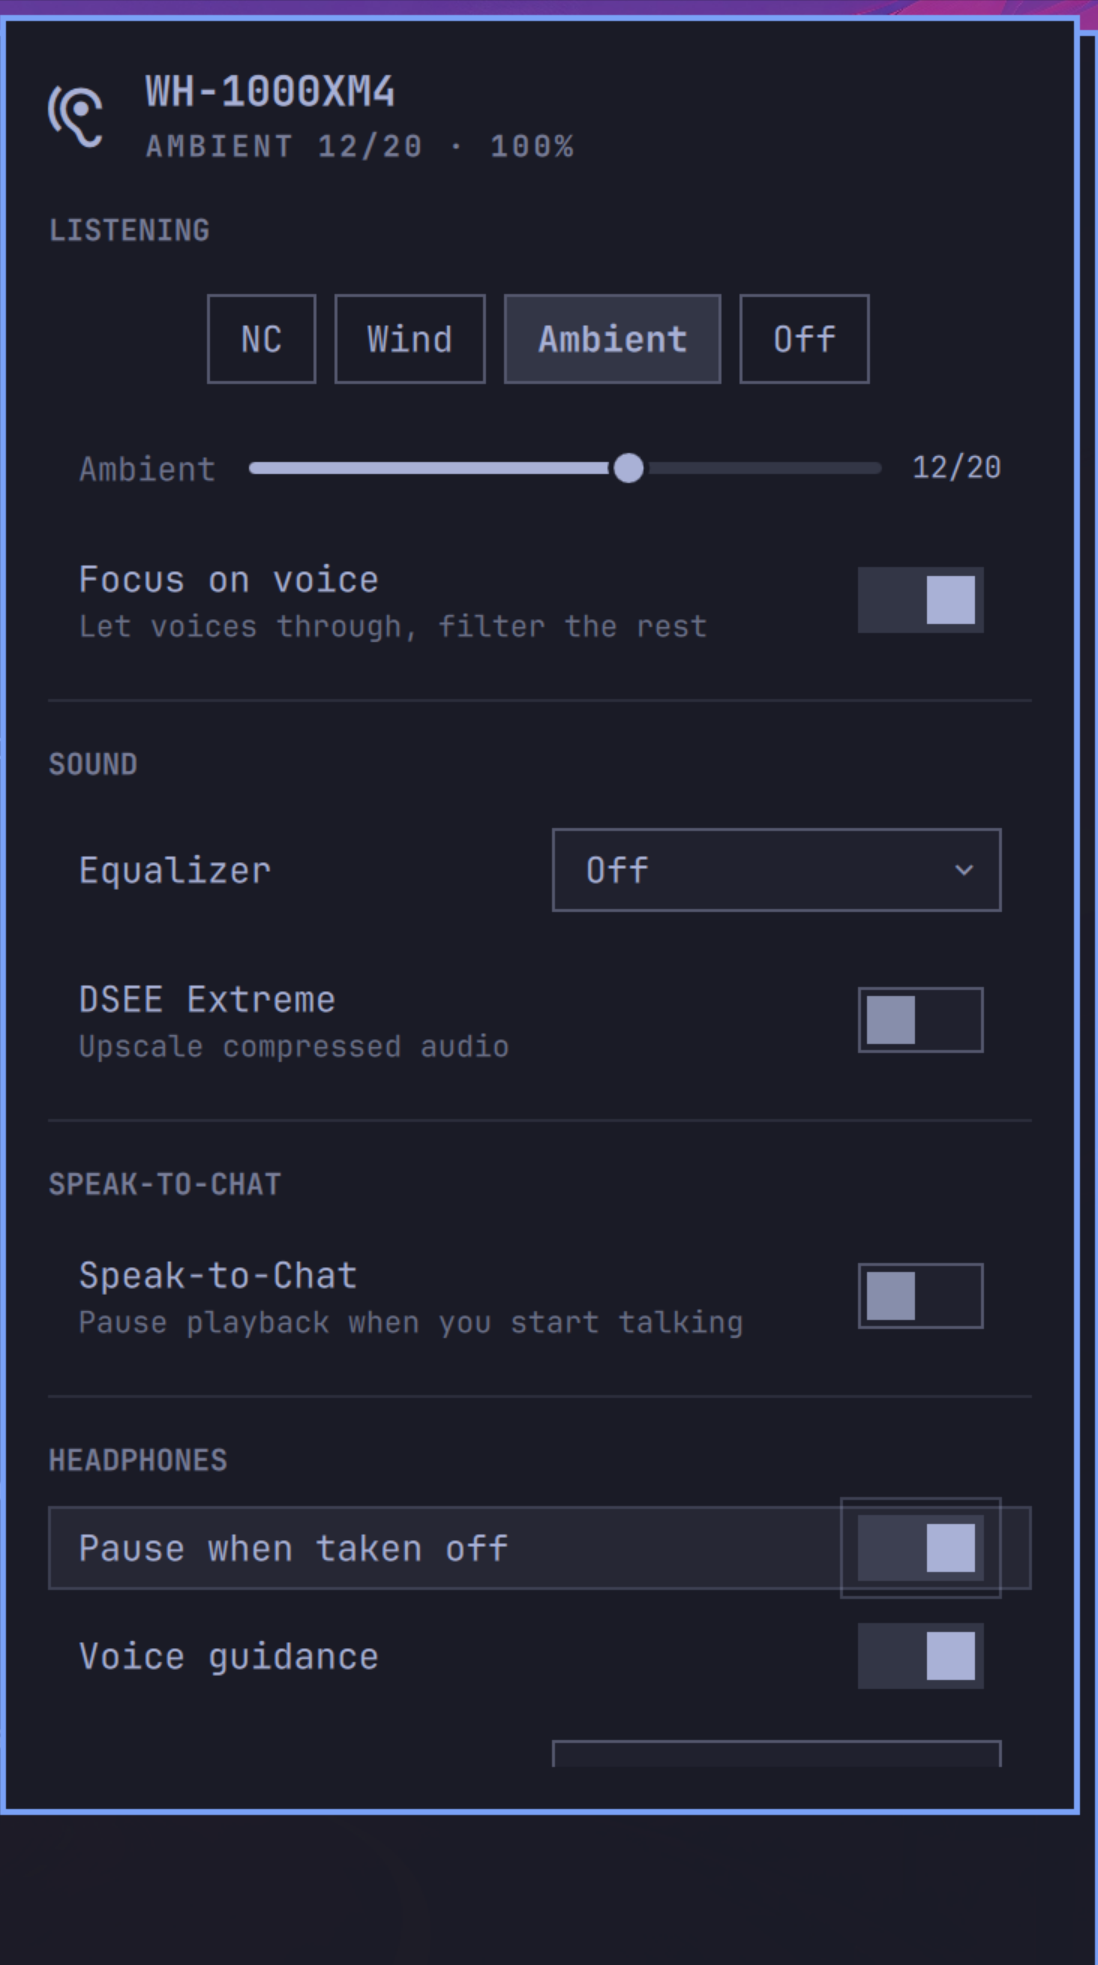
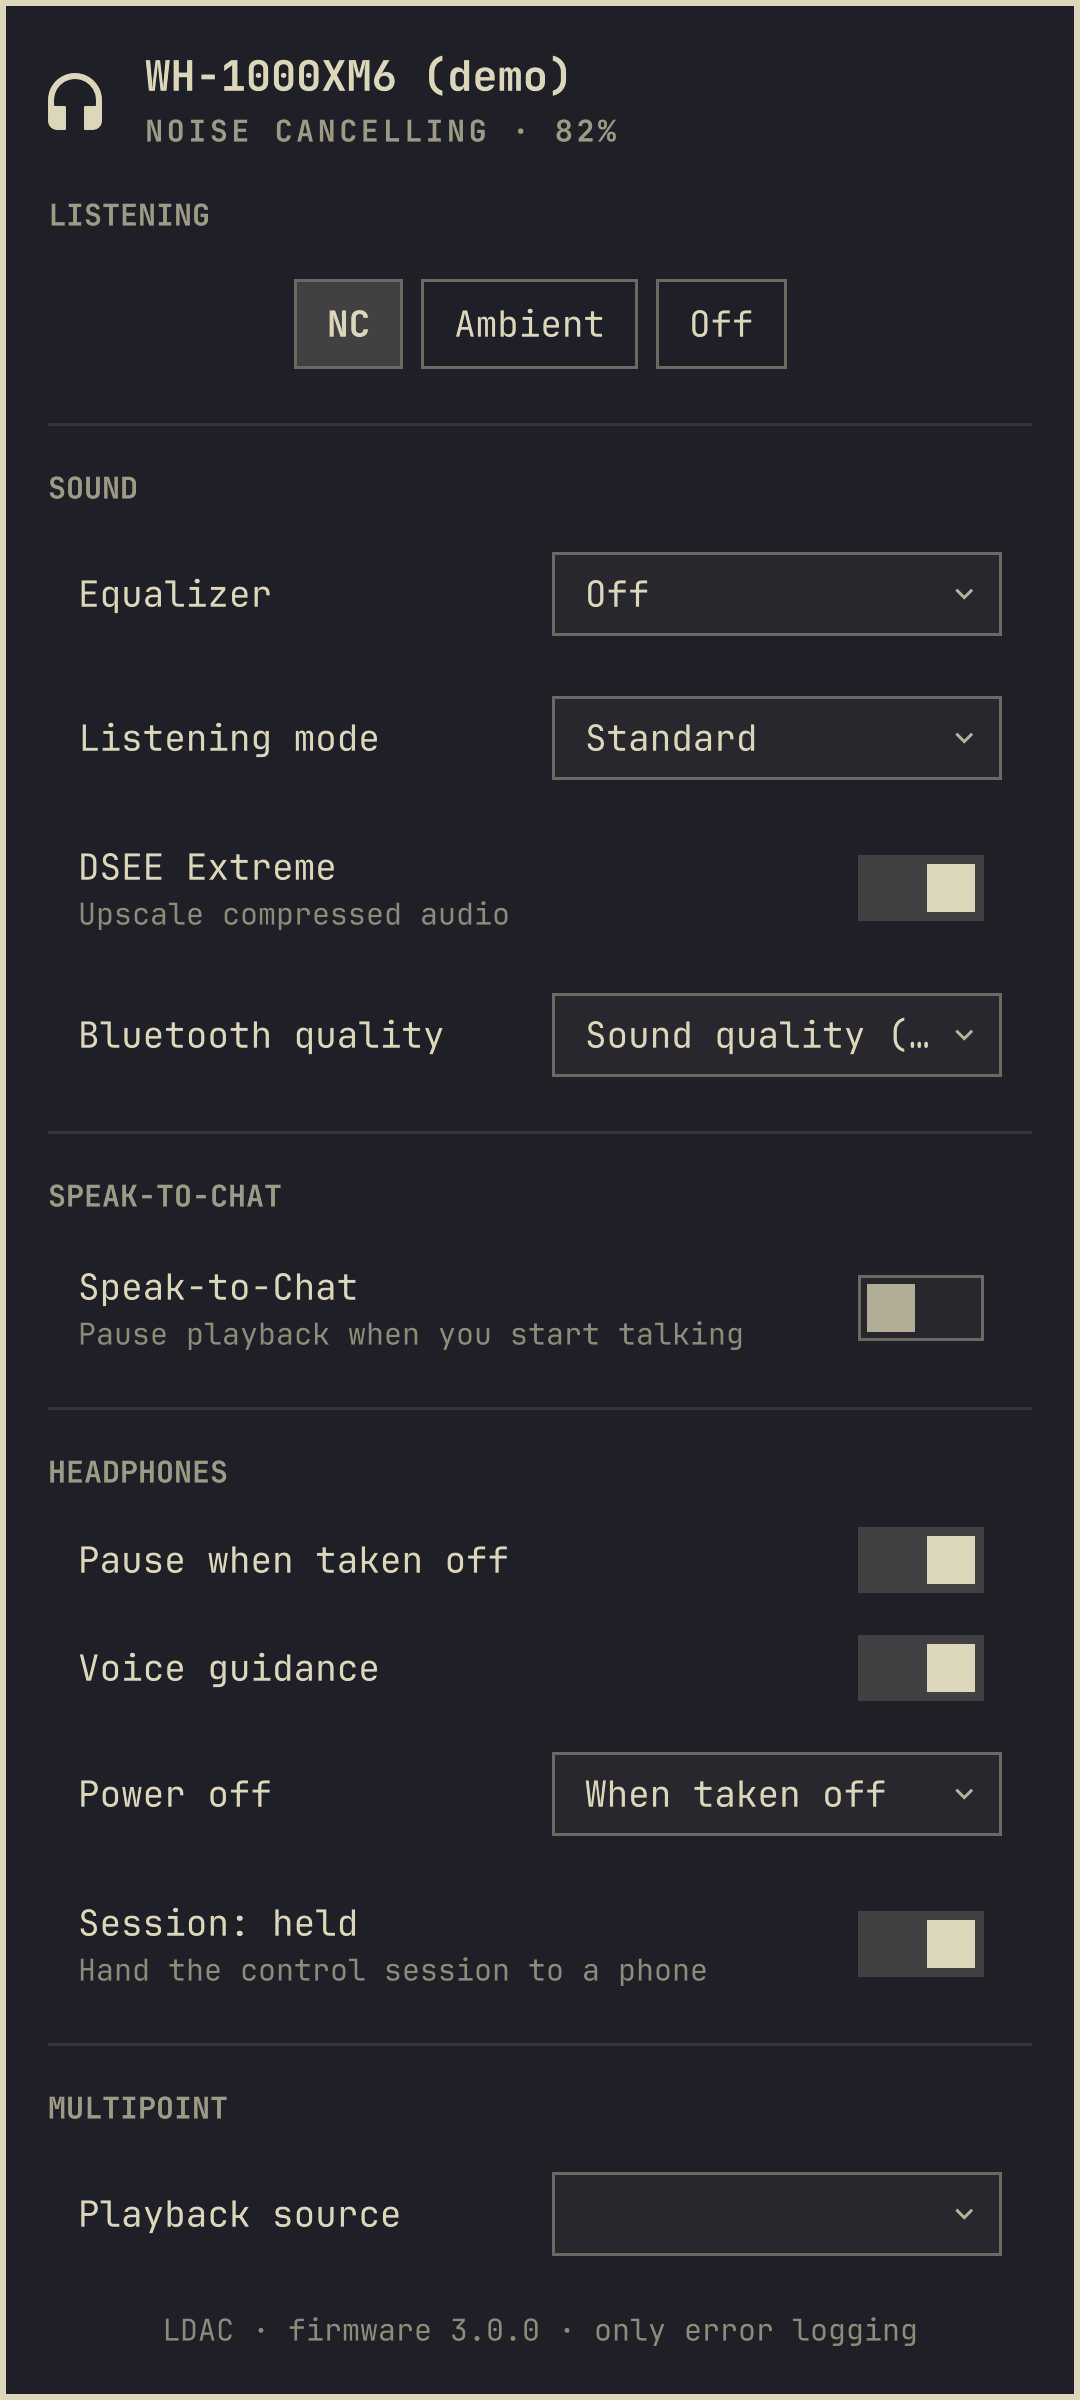
Add hover tooltips, a full-height panel and refreshed captures
Every control in the panel now explains what it does and what it is currently
set to, the panel is allowed the full screen height instead of a fixed cap, and
the bar and panel captures are refreshed. Panel.qml only, no helper change: the
tooltips read the same labels and state the rows already draw, so nothing new
crosses the widget/helper seam. CI gains a QML job that runs the Model.js cover
in the real engine, and the QML test file is named like the rest of the suite.

diff --git a/Panel.qml b/Panel.qml
@@ -213,7 +213,9 @@ Panel {
     bar: root.bar
     text: Model.barText(sony.state, root.showBattery, root.vertical)
     slotSize: Style.bar.iconSlot * (root.showBattery && !root.vertical && sony.showing ? 2 : 1)
-    tooltipText: Model.tooltip(sony.state)
+    tooltipText: Model.tooltip(sony.state) + "\n"
+      + "Click: open panel · Right-click: cycle mode · Middle-click: refresh"
+      + (sony.showing ? " · Wheel: ambient level" : "")
     foreground: sony.showing ? root.barForeground : Qt.darker(root.barForeground, 1.6)
 
     onPressed: function(buttonCode) {
@@ -239,7 +241,7 @@ Panel {
     open: root.opened
     focusTarget: keyCatcher
     contentWidth: panel.fittedContentWidth(Style.space(360))
-    contentHeight: panel.fittedContentHeight(column.implicitHeight, Style.space(600))
+    contentHeight: panel.fittedContentHeight(column.implicitHeight)
 
     PanelKeyCatcher {
       id: keyCatcher
@@ -356,6 +358,16 @@ Panel {
               hasCursor: root.hasCursorFor("mode")
               foreground: root.foreground
               implicitHeight: modeGroup.implicitHeight + Style.spacing.rowPaddingX
+              ToolTip.text: "Noise cancelling mode — currently " + Model.modeLabel(sony.mode)
+              ToolTip.visible: modeMouse.containsMouse && ToolTip.text !== ""
+
+              MouseArea {
+                id: modeMouse
+                anchors.fill: parent
+                hoverEnabled: true
+                acceptedButtons: Qt.NoButton
+                onEntered: root.setCursor("mode")
+              }
 
               ButtonGroup {
                 id: modeGroup
@@ -377,8 +389,12 @@ Panel {
               hasCursor: root.hasCursorFor("level")
               foreground: root.foreground
               implicitHeight: Style.spacing.controlHeight
+              ToolTip.text: "Ambient sound level — currently " + sony.ambientLevel
+                + "/" + Model.MAX_AMBIENT_LEVEL + ". Drag or scroll to change."
+              ToolTip.visible: levelMouse.containsMouse && ToolTip.text !== ""
 
               MouseArea {
+                id: levelMouse
                 anchors.fill: parent
                 hoverEnabled: true
                 acceptedButtons: Qt.NoButton
@@ -458,6 +474,7 @@ Panel {
               options: Model.eqPresets(sony.state.protocol)
               value: String(sony.state.eq_preset || "off")
               onPicked: function(value) { sony.choose("eq", "eq_preset", value) }
+              tip: "Equalizer preset — the tone curve the headphones apply"
             }
 
             DropdownRow {
@@ -467,6 +484,7 @@ Panel {
               options: Model.LISTENING_MODE
               value: String(sony.state.listening_mode || "standard")
               onPicked: function(value) { sony.choose("listening-mode", "listening_mode", value) }
+              tip: "Listening mode — how the headphones colour sound for what is around you"
             }
 
             DropdownRow {
@@ -476,6 +494,7 @@ Panel {
               options: Model.BGM_ROOM_SIZE
               value: String(sony.state.bgm_room_size || "living-room")
               onPicked: function(value) { sony.choose("bgm-room-size", "bgm_room_size", value) }
+              tip: "Room — the space Background Music simulates"
             }
 
             ToggleRow {
@@ -493,6 +512,7 @@ Panel {
               options: Model.CONNECTION_QUALITY
               value: String(sony.state.connection_quality || "sound-quality")
               onPicked: function(value) { sony.choose("connection-quality", "connection_quality", value) }
+              tip: "Bluetooth quality — trade bitrate for a stronger link, or the other way around"
             }
           }
 
@@ -528,6 +548,7 @@ Panel {
               options: Model.STC_SENSITIVITY
               value: String(sony.state.stc_sensitivity || "auto")
               onPicked: function(value) { sony.choose("stc-sensitivity", "stc_sensitivity", value) }
+              tip: "Speak-to-Chat sensitivity — how readily your voice pauses playback"
             }
 
             DropdownRow {
@@ -537,6 +558,7 @@ Panel {
               options: Model.STC_TIMEOUT
               value: String(sony.state.stc_timeout || "standard")
               onPicked: function(value) { sony.choose("stc-timeout", "stc_timeout", value) }
+              tip: "Resume delay — how long after you stop talking playback returns"
             }
 
             ToggleRow {
@@ -544,6 +566,7 @@ Panel {
               visible: Model.hasRow(rows, "stc-focus")
               label: "Voice focus while chatting"
               checked: !!sony.state.stc_focus_on_voice
+              tip: "Voice focus while chatting — pass voices through while Speak-to-Chat holds playback"
             }
           }
 
@@ -572,6 +595,7 @@ Panel {
               visible: Model.hasRow(rows, "pause")
               label: "Pause when taken off"
               checked: !!sony.state.pause_when_taken_off
+              tip: "Pause when taken off — stop playback when the headphones leave your head"
             }
 
             ToggleRow {
@@ -579,6 +603,7 @@ Panel {
               visible: Model.hasRow(rows, "touch")
               label: "Touch controls"
               checked: !!sony.state.touch_sensor
+              tip: "Touch controls — the earcup touch panel for play, volume and calls"
             }
 
             ToggleRow {
@@ -586,6 +611,7 @@ Panel {
               visible: Model.hasRow(rows, "voice")
               label: "Voice guidance"
               checked: !!sony.state.voice_notifications
+              tip: "Voice guidance — spoken status announcements from the headphones"
             }
 
             DropdownRow {
@@ -595,6 +621,7 @@ Panel {
               options: Model.autoPowerOffOptions(root.features)
               value: String(sony.state.auto_power_off || "off")
               onPicked: function(value) { sony.choose("auto-power-off", "auto_power_off", value) }
+              tip: "Auto power-off — when the headphones turn themselves off"
             }
 
             // The one control session a Sony headset allows: held by the
@@ -608,6 +635,7 @@ Panel {
                 ? "Take the control session back"
                 : "Hand the control session to a phone"
               checked: sony.session === "held"
+              tip: sony.session === "released" ? "Control session — now released to a phone. Activate to take it back." : "Control session — now held by the widget. Activate to hand it to a phone."
             }
           }
 
@@ -636,6 +664,7 @@ Panel {
               options: Model.deviceOptions(sony.state)
               value: String(Model.playbackSource(sony.state))
               onPicked: function(value) { sony.choosePlaybackSource(value) }
+              tip: "Playback source — which paired Bluetooth device owns playback"
             }
           }
 
@@ -677,6 +706,9 @@ Panel {
               font.family: root.fontFamily
               font.pixelSize: Style.font.caption
               font.underline: loggingLinkMouse.containsMouse
+              ToolTip.text: "Daemon log level — currently " + Model.loggingLabel(sony.state)
+                + ". Click to cycle errors → all → off."
+              ToolTip.visible: loggingLinkMouse.containsMouse
 
               MouseArea {
                 id: loggingLinkMouse
@@ -702,9 +734,13 @@ Panel {
     property string label: ""
     property string hint: ""
     property bool checked: false
+    property string tip: ""
     // A row the model lacks stays hidden (rowsFor); a row that exists but is
     // blocked by another setting is shown with its control greyed, the label
     // at full contrast, and the reason in a tooltip — no persistent line.
+    // An available row's tooltip says what the setting does and where it is
+    // now; `tip` overrides the composed hint-and-state text for rows whose
+    // label alone would not carry the purpose.
     readonly property var availability: Model.availabilityFor(sony.state, rowKey)
     readonly property bool available: availability.available
 
@@ -713,8 +749,13 @@ Panel {
     foreground: root.foreground
     implicitHeight: toggleContent.implicitHeight + Style.spacing.rowPaddingX
 
-    ToolTip.text: toggleRow.availability.reason
-    ToolTip.visible: !toggleRow.available && rowMouse.containsMouse
+    ToolTip.text: !toggleRow.available
+      ? toggleRow.availability.reason
+      : (toggleRow.tip !== ""
+         ? toggleRow.tip
+         : (toggleRow.hint !== "" ? toggleRow.hint : toggleRow.label)
+           + " — currently " + (toggleRow.checked ? "on" : "off"))
+    ToolTip.visible: rowMouse.containsMouse && ToolTip.text !== ""
 
     MouseArea {
       id: rowMouse
@@ -786,9 +827,12 @@ Panel {
     property string label: ""
     property var options: []
     property string value: ""
+    property string tip: ""
     signal picked(string value)
     // Same availability contract as ToggleRow: the label stays at full
     // contrast, only the control dims, and the reason rides in a tooltip.
+    // The composed text names the option list's label for the current value,
+    // so the tooltip reads "Sound quality (LDAC)" rather than the wire token.
     readonly property var availability: Model.availabilityFor(sony.state, rowKey)
     readonly property bool available: availability.available
 
@@ -797,8 +841,11 @@ Panel {
     foreground: root.foreground
     implicitHeight: Style.spacing.controlHeight + Style.spacing.rowPaddingX
 
-    ToolTip.text: dropdownRow.availability.reason
-    ToolTip.visible: !dropdownRow.available && dropdownMouse.containsMouse
+    ToolTip.text: !dropdownRow.available
+      ? dropdownRow.availability.reason
+      : (dropdownRow.tip !== "" ? dropdownRow.tip : dropdownRow.label)
+        + " — currently: " + Model.optionLabel(dropdownRow.options, dropdownRow.value)
+    ToolTip.visible: dropdownMouse.containsMouse && ToolTip.text !== ""
 
     MouseArea {
       id: dropdownMouse

diff --git a/tests/test_model.qml b/tests/test_model.qml
@@ -3,7 +3,7 @@ import QtTest
 import "../Model.js" as Model
 
 // QtTest cover for the pure Model.js helpers, exercised in the real engine:
-//   QT_QPA_PLATFORM=offscreen qmltestrunner tests/tst_model.qml
+//   QT_QPA_PLATFORM=offscreen qmltestrunner tests/test_model.qml
 // The JS import climbs one directory because this file lives in tests/ while
 // Model.js lives at the repo root, so run it from the repo root.
 TestCase {
